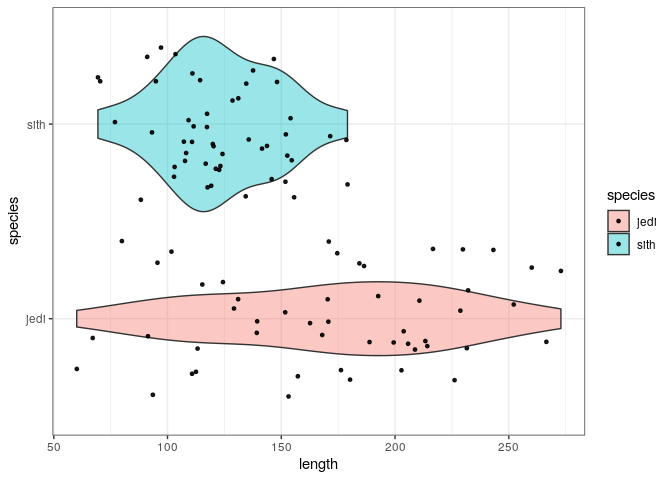
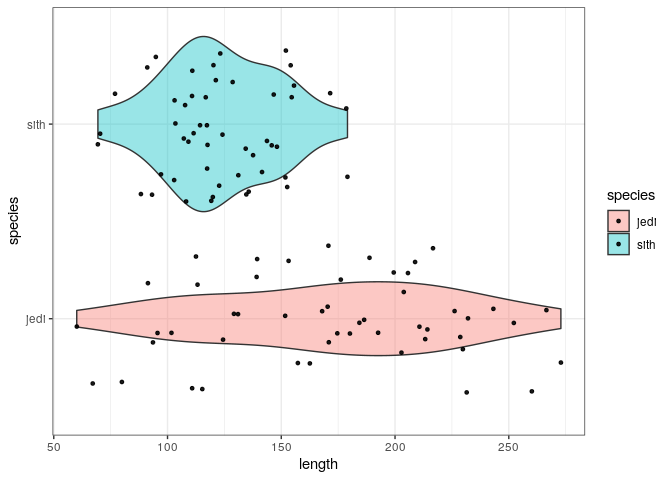
fix letex

diff --git a/Week1/Task6.md b/Week1/Task6.md
@@ -8,7 +8,9 @@ Gina Miku Oba
 ## 1. A function that calculates the ratio of the mean and the median of a given vector.
 
 Input of the function is given vector and output of the function is the
-ratio of the mean and the median. $$
+ratio of the mean and the median.
+
+$$
 f(x) = \frac{mean(x)}{median(x)} \\
 \text{where, }x = \{x_1, x_2, ..., x_n\}
 $$
@@ -27,21 +29,21 @@ vector <- runif(10, 0, 1)
 print(vector)
 ```
 
-    ##  [1] 0.69528372 0.97081159 0.72033951 0.95534629 0.27936788 0.72894444
-    ##  [7] 0.43696733 0.13007022 0.14434471 0.05637758
+    ##  [1] 0.09043364 0.56039604 0.55568637 0.96031764 0.51601451 0.55126713
+    ##  [7] 0.22929616 0.26628807 0.14052216 0.96067508
 
 ``` r
 # print mean and median
 print(paste("mean:", mean(vector)))
 ```
 
-    ## [1] "mean: 0.511785328621045"
+    ## [1] "mean: 0.483089677873068"
 
 ``` r
 print(paste("median:", median(vector)))
 ```
 
-    ## [1] "median: 0.566125528072007"
+    ## [1] "median: 0.53364081599284"
 
 ``` r
 # print ratio of mean and median 
@@ -49,7 +51,7 @@ result <- ratio_mean_median(vector)
 print(result)
 ```
 
-    ## [1] 0.9040139
+    ## [1] 0.9052712
 
 ``` r
 # print if function works fine
@@ -86,27 +88,27 @@ vector <- runif(10, 0, 1)
 print(vector)
 ```
 
-    ##  [1] 0.44238432 0.67333230 0.16618733 0.79236806 0.74682731 0.05275395
-    ##  [7] 0.57973204 0.59655261 0.55482136 0.89286302
+    ##  [1] 0.99096315 0.46809563 0.16775805 0.39400477 0.27496038 0.02930822
+    ##  [7] 0.53292353 0.23619284 0.38348189 0.69666559
 
 ``` r
 print(paste("median:", median(vector)))
 ```
 
-    ## [1] "median: 0.58814232761506"
+    ## [1] "median: 0.388743326300755"
 
 ``` r
 # print mean and trim_mean
 print(paste("mean:", mean(vector)))
 ```
 
-    ## [1] "mean: 0.549782230798155"
+    ## [1] "mean: 0.417435403075069"
 
 ``` r
 print(paste("trim_mean:", trim_mean(vector)))
 ```
 
-    ## [1] "trim_mean: 0.569025667384267"
+    ## [1] "trim_mean: 0.394260332948761"
 
 The advantage of this trimmed mean is that it is robust to outliers or
 the heavy tail data distribution. Try vector with extreme value:
@@ -119,27 +121,27 @@ vector <- append(vector, 10)
 print(vector)
 ```
 
-    ##  [1]  0.78708000  0.34745111  0.51816333  0.19856377  0.27578365  0.78428501
-    ##  [7]  0.01558995  0.69500849  0.93741776 10.00000000
+    ##  [1]  0.10519219  0.98352282  0.77933591  0.20712216  0.79607092  0.60857962
+    ##  [7]  0.83973060  0.86330618  0.03660586 10.00000000
 
 ``` r
 print(paste("median:", median(vector)))
 ```
 
-    ## [1] "median: 0.606585909961723"
+    ## [1] "median: 0.787703414913267"
 
 ``` r
 # print mean and trim_mean
 print(paste("mean:", mean(vector)))
 ```
 
-    ## [1] "mean: 1.45593430711888"
+    ## [1] "mean: 1.5219466252951"
 
 ``` r
 print(paste("trim_mean:", trim_mean(vector)))
 ```
 
-    ## [1] "trim_mean: 0.567969140218338"
+    ## [1] "trim_mean: 0.647857549454784"
 
 By trimming the highest and lowest values, the trimmed mean was closer
 to the median.

diff --git a/Week1/Task7.md b/Week1/Task7.md
@@ -595,14 +595,16 @@ print(p)
 
     ## `geom_smooth()` using method = 'loess' and formula = 'y ~ x'
 
-![](Task7_files/figure-gfm/unnamed-chunk-26-1.png)<!-- --> \### 3. Dose
-carbon dioxide uptake rates distribution is differ between the origin of
-the plant? The above plot visualized the differences in response by
-region of origin to the effect of the treatment, but it was difficult to
-see the differences in the original region of origin. Therefore, we drew
-a plot that was split by treatment and color by region of origin. The
-plot showed that carbon dioxide uptake rates were lower in Mississippi
-than in Quebec, irrespective of treatment.
+![](Task7_files/figure-gfm/unnamed-chunk-26-1.png)<!-- -->
+
+### 3. Dose carbon dioxide uptake rates distribution is differ between the origin of the plant?
+
+The above plot visualized the differences in response by region of
+origin to the effect of the treatment, but it was difficult to see the
+differences in the original region of origin. Therefore, we drew a plot
+that was split by treatment and color by region of origin. The plot
+showed that carbon dioxide uptake rates were lower in Mississippi than
+in Quebec, irrespective of treatment.
 
 ``` r
 p <- ggplot(CO2,aes(x=conc, y=uptake, color = Type)) + 
@@ -615,8 +617,10 @@ print(p)
 
     ## `geom_smooth()` using method = 'loess' and formula = 'y ~ x'
 
-![](Task7_files/figure-gfm/unnamed-chunk-27-1.png)<!-- --> \### 4. What
-is the overall conclusion of carbon dioxide uptake rates in 4 condition?
+![](Task7_files/figure-gfm/unnamed-chunk-27-1.png)<!-- -->
+
+### 4. What is the overall conclusion of carbon dioxide uptake rates in 4 condition?
+
 To conclude this data, the carbon dioxide uptake rate increases with the
 environmental carbon dioxide concentration and saturates when a certain
 concentration is reached, the amount of saturation depending on the
